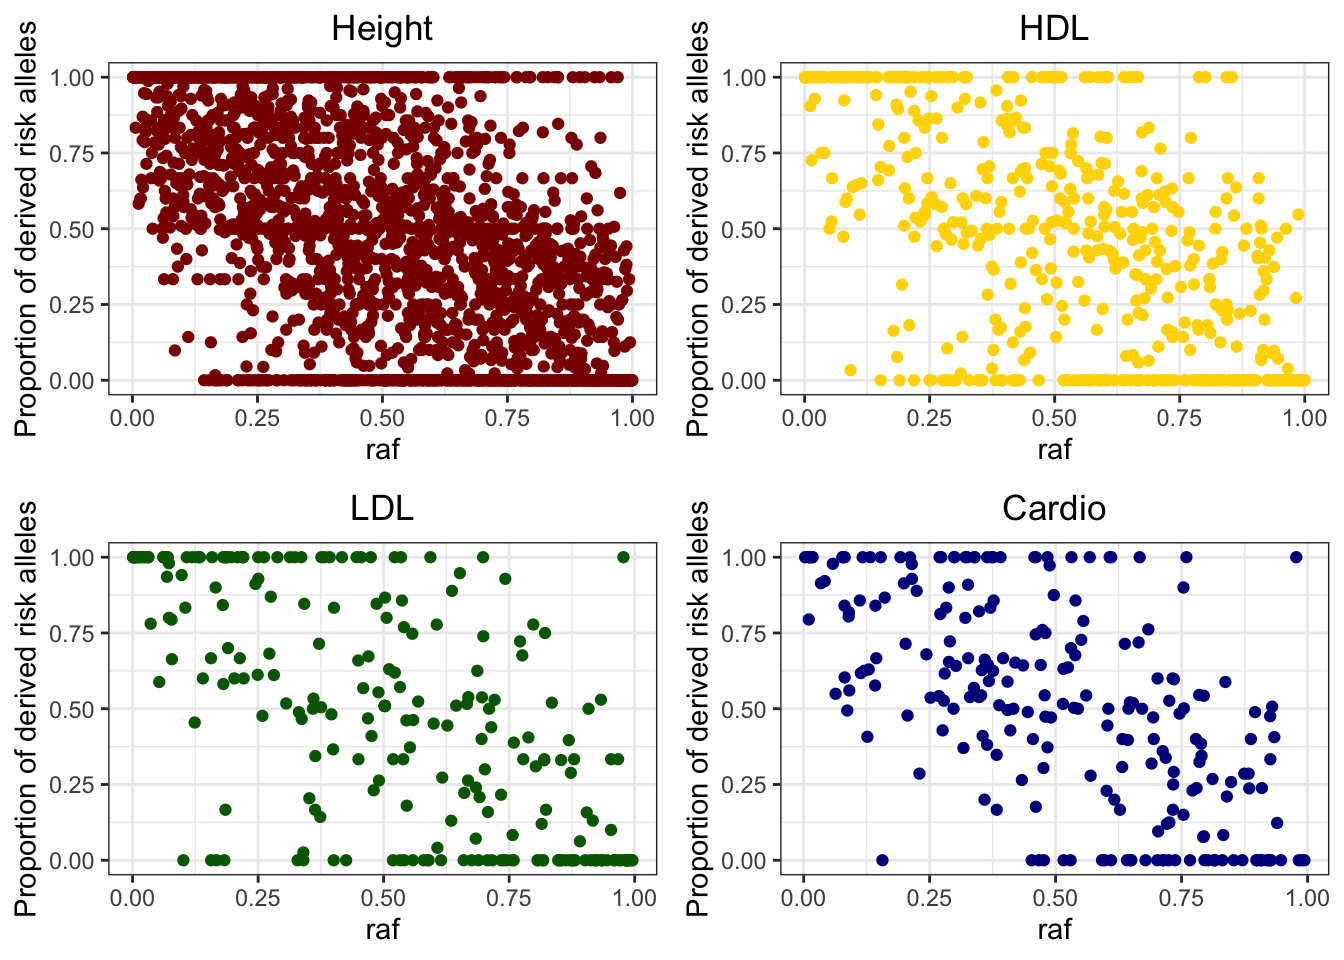
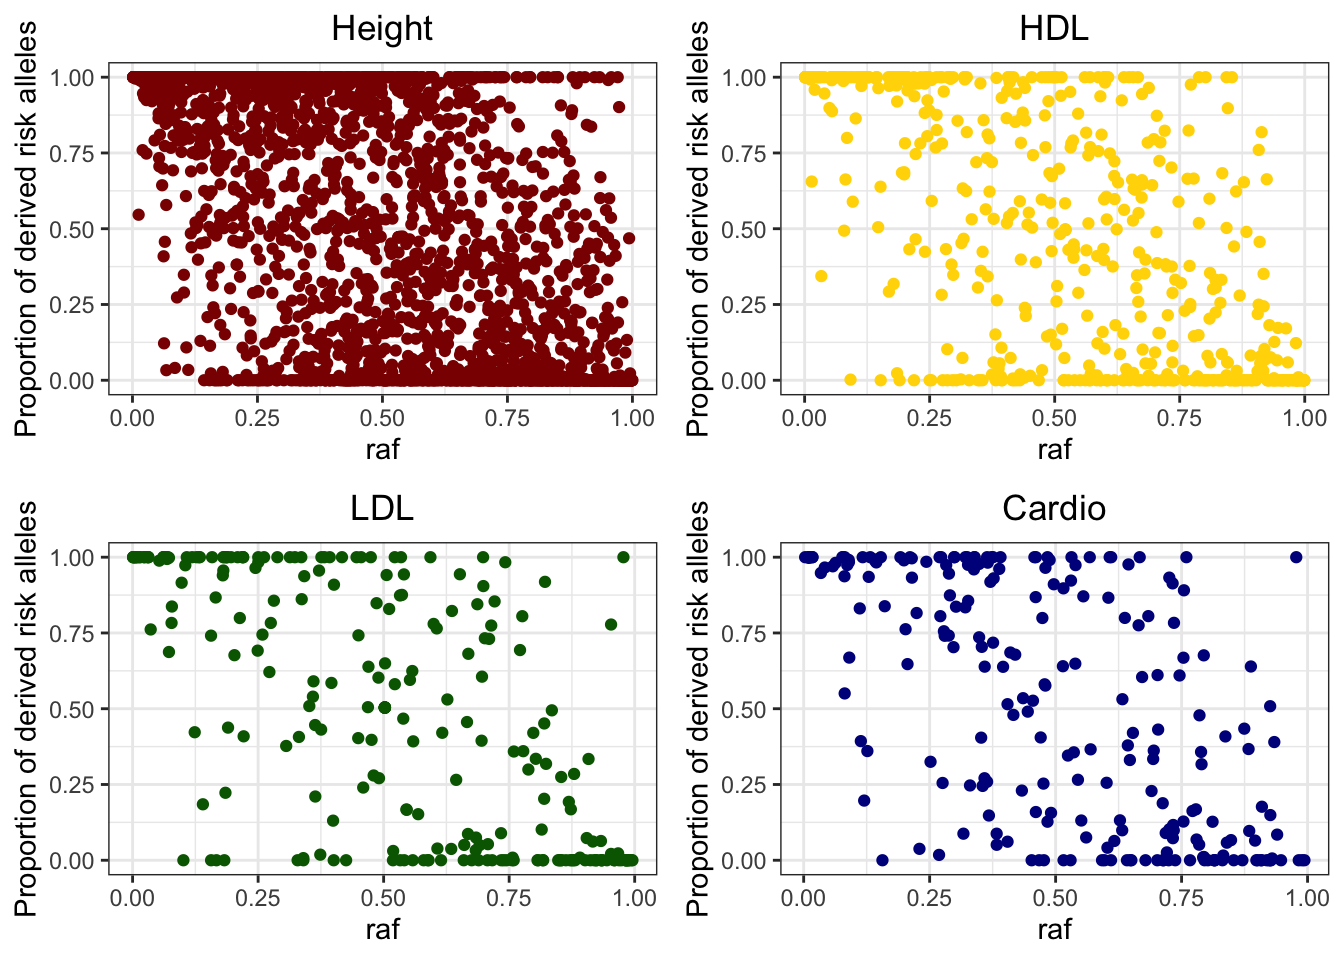
Build site.

diff --git a/docs/CS_results.html b/docs/CS_results.html
@@ -535,10 +535,10 @@ This reproducible <a href="http://rmarkdown.rstudio.com">R Markdown</a> analysis
 <div class="panel panel-default">
 <div class="panel-heading">
 <p class="panel-title">
-<a data-toggle="collapse" data-parent="#workflowr-checks" href="#strongRepositoryversionstrongahrefhttpsgithubcomjgblancinfermutationalbiastree702e047d6756aacf00816cf950a7d4c7371c9dd7targetblank702e047a"> <span class="glyphicon glyphicon-ok text-success" aria-hidden="true"></span> <strong>Repository version:</strong> <a href="https://github.com/jgblanc/infer_mutational_bias/tree/702e047d6756aacf00816cf950a7d4c7371c9dd7" target="_blank">702e047</a> </a>
+<a data-toggle="collapse" data-parent="#workflowr-checks" href="#strongRepositoryversionstrongahrefhttpsgithubcomjgblancinfermutationalbiastreef80bb2ee2e18e8f00af33c6faa8682ca47ed491btargetblankf80bb2ea"> <span class="glyphicon glyphicon-ok text-success" aria-hidden="true"></span> <strong>Repository version:</strong> <a href="https://github.com/jgblanc/infer_mutational_bias/tree/f80bb2ee2e18e8f00af33c6faa8682ca47ed491b" target="_blank">f80bb2e</a> </a>
 </p>
 </div>
[2 lines of base64/hex data omitted]
 <div class="panel-body">
 <p>
 Great! You are using Git for version control. Tracking code development and connecting the code version to the results is critical for reproducibility. The version displayed above was the version of the Git repository at the time these results were generated. <br><br> Note that you need to be careful to ensure that all relevant files for the analysis have been committed to Git prior to generating the results (you can use <code>wflow_publish</code> or <code>wflow_git_commit</code>). workflowr only checks the R Markdown file, but you know if there are other scripts or data files that it depends on. Below is the status of the Git repository when the results were generated:
@@ -556,64 +556,7 @@ Ignored files:
     Ignored:    .snakemake/singularity/
     Ignored:    data/47UKBB/
     Ignored:    output/.DS_Store
-
-Untracked files:
-    Untracked:  .snakemake/log/2019-12-01T171704.445769.snakemake.log
-    Untracked:  .snakemake/log/2019-12-01T171716.445658.snakemake.log
-    Untracked:  .snakemake/log/2019-12-01T171934.887885.snakemake.log
-    Untracked:  .snakemake/log/2019-12-01T172033.450339.snakemake.log
-    Untracked:  .snakemake/log/2019-12-01T172434.758514.snakemake.log
-    Untracked:  .snakemake/log/2019-12-01T172515.391178.snakemake.log
-    Untracked:  .snakemake/log/2019-12-01T172540.390292.snakemake.log
-    Untracked:  .snakemake/log/2019-12-01T172641.640050.snakemake.log
-    Untracked:  .snakemake/log/2019-12-01T173001.519786.snakemake.log
-    Untracked:  .snakemake/log/2019-12-01T173023.677145.snakemake.log
-    Untracked:  .snakemake/log/2019-12-01T193449.229760.snakemake.log
-    Untracked:  .snakemake/log/2019-12-02T102328.145936.snakemake.log
-    Untracked:  .snakemake/log/2019-12-02T140133.805553.snakemake.log
-    Untracked:  .snakemake/log/2019-12-02T140143.026074.snakemake.log
-    Untracked:  .snakemake/log/2019-12-02T143231.038420.snakemake.log
-    Untracked:  .snakemake/log/2019-12-02T145534.696725.snakemake.log
-    Untracked:  .snakemake/log/2019-12-02T145633.467935.snakemake.log
-    Untracked:  .snakemake/log/2019-12-02T153155.369261.snakemake.log
-    Untracked:  .snakemake/log/2019-12-02T160651.352894.snakemake.log
-    Untracked:  .snakemake/log/2019-12-02T161052.405589.snakemake.log
-    Untracked:  .snakemake/log/2019-12-05T110442.752390.snakemake.log
-    Untracked:  .snakemake/log/2019-12-05T114920.799265.snakemake.log
-    Untracked:  .snakemake/log/2019-12-05T114943.767632.snakemake.log
-    Untracked:  .snakemake/log/2019-12-05T131339.704902.snakemake.log
-    Untracked:  .snakemake/log/2019-12-05T161254.126823.snakemake.log
-    Untracked:  .snakemake/log/2019-12-05T163051.151332.snakemake.log
-    Untracked:  .snakemake/log/2019-12-06T094920.751632.snakemake.log
-    Untracked:  .snakemake/log/2019-12-06T094937.830782.snakemake.log
-    Untracked:  .snakemake/log/2019-12-06T100256.617380.snakemake.log
-    Untracked:  .snakemake/metadata/b3V0cHV0LzQ3VUtCQi9FQUZfaW5mb19hZGRlZC9iaW9jaGVtaXN0cnlfSERMY2hvbGVzdGVyb2xfRUFGLnR4dA==
-    Untracked:  .snakemake/metadata/b3V0cHV0LzQ3VUtCQi9SQUZfaW5mb19hZGRlZC9iaW9jaGVtaXN0cnlfSERMY2hvbGVzdGVyb2xfUkFGLnR4dA==
-    Untracked:  .snakemake/metadata/b3V0cHV0LzQ3VUtCQi9SQUZfaW5mb19hZGRlZC9iaW9jaGVtaXN0cnlfTERMZGlyZWN0X1JBRi50eHQ=
-    Untracked:  .snakemake/metadata/b3V0cHV0LzQ3VUtCQi9SQUZfaW5mb19hZGRlZC9ib2R5X0hFSUdIVHpfUkFGLnR4dA==
-    Untracked:  .snakemake/metadata/b3V0cHV0LzQ3VUtCQi9SQUZfaW5mb19hZGRlZC9kaXNlYXNlX0NBUkRJT1ZBU0NVTEFSX1JBRi50eHQ=
-    Untracked:  .snakemake/metadata/b3V0cHV0LzQ3VUtCQi9ldm9faW5mb19hZGRlZC9iaW9jaGVtaXN0cnlfTERMZGlyZWN0X2V2b19hZGRlZC50eHQ=
-    Untracked:  .snakemake/metadata/b3V0cHV0LzQ3VUtCQi9ldm9faW5mb19hZGRlZC9ib2R5X0hFSUdIVHpfZXZvX2FkZGVkLnR4dA==
-    Untracked:  .snakemake/metadata/b3V0cHV0LzQ3VUtCQi9ldm9faW5mb19hZGRlZC9kaXNlYXNlX0NBUkRJT1ZBU0NVTEFSX2V2b19hZGRlZC50eHQ=
-    Untracked:  .snakemake/metadata/b3V0cHV0LzQ3VUtCQi9wYXJzZWRfYWxwaGFzL2Jpb2NoZW1pc3RyeV9MRExkaXJlY3RfYWxwaGFzX3BhcnNlZC50eHQ=
-    Untracked:  .snakemake/metadata/b3V0cHV0LzQ3VUtCQi9wYXJzZWRfYWxwaGFzL2JvZHlfSEVJR0hUel9hbHBoYXNfcGFyc2VkLnR4dA==
-    Untracked:  .snakemake/metadata/b3V0cHV0LzQ3VUtCQi9wYXJzZWRfYWxwaGFzL2Rpc2Vhc2VfQ0FSRElPVkFTQ1VMQVJfYWxwaGFzX3BhcnNlZC50eHQ=
-    Untracked:  _workflowr.yml~
-    Untracked:  analysis/model_overvieew.Rmd
-    Untracked:  code/get_EAF_rsID.py
-    Untracked:  code/get_EAF_rsID.py~
-    Untracked:  code/get_RAF.R
-    Untracked:  code/get_RAF_rsID.py~
-    Untracked:  output/47UKBB/
-
-Unstaged changes:
-    Modified:   .snakemake/metadata/b3V0cHV0LzQ3VUtCQi9ldm9faW5mb19hZGRlZC9iaW9jaGVtaXN0cnlfSERMY2hvbGVzdGVyb2xfZXZvX2FkZGVkLnR4dA==
-    Modified:   .snakemake/metadata/b3V0cHV0LzQ3VUtCQi9wYXJzZWRfYWxwaGFzL2Jpb2NoZW1pc3RyeV9IRExjaG9sZXN0ZXJvbF9hbHBoYXNfcGFyc2VkLnR4dA==
-    Modified:   _workflowr.yml
-    Modified:   analysis/figure_out_cs.Rmd
-    Modified:   code/parse_alphas_47UKBB.R
-    Modified:   snakefile
-    Modified:   snakefile~
+    Ignored:    output/47UKBB/
 
 </code></pre>
 <p>
@@ -652,6 +595,40 @@ Message
 </tr>
 </thead>
 <tbody>
+<tr>
+<td>
+Rmd
+</td>
+<td>
+<a href="https://github.com/jgblanc/infer_mutational_bias/blob/f80bb2ee2e18e8f00af33c6faa8682ca47ed491b/analysis/CS_results.Rmd" target="_blank">f80bb2e</a>
+</td>
+<td>
+jgblanc
+</td>
+<td>
+2019-12-09
+</td>
+<td>
+fixed RAF plot
+</td>
+</tr>
+<tr>
+<td>
+html
+</td>
+<td>
+<a href="https://rawcdn.githack.com/jgblanc/infer_mutational_bias/20ae584e6082f36520d9c7ba44bebcee7b7990a7/docs/CS_results.html" target="_blank">20ae584</a>
+</td>
+<td>
+jgblanc
+</td>
+<td>
+2019-12-09
+</td>
+<td>
+Build site.
+</td>
+</tr>
 <tr>
 <td>
 Rmd
@@ -936,6 +913,17 @@ Date
 <tbody>
 <tr>
 <td>
+<a href="https://github.com/jgblanc/infer_mutational_bias/blob/20ae584e6082f36520d9c7ba44bebcee7b7990a7/docs/figure/CS_results.Rmd/unnamed-chunk-10-1.png" target="_blank">20ae584</a>
+</td>
+<td>
+jgblanc
+</td>
+<td>
+2019-12-09
+</td>
+</tr>
+<tr>
+<td>
 <a href="https://github.com/jgblanc/infer_mutational_bias/blob/76ee01773c578a2d7d5c80032769d9564276d07d/docs/figure/CS_results.Rmd/unnamed-chunk-10-1.png" target="_blank">76ee017</a>
 </td>
 <td>
@@ -1002,6 +990,17 @@ Date
 <tbody>
 <tr>
 <td>
+<a href="https://github.com/jgblanc/infer_mutational_bias/blob/20ae584e6082f36520d9c7ba44bebcee7b7990a7/docs/figure/CS_results.Rmd/unnamed-chunk-11-1.png" target="_blank">20ae584</a>
+</td>
+<td>
+jgblanc
+</td>
+<td>
+2019-12-09
+</td>
+</tr>
+<tr>
+<td>
 <a href="https://github.com/jgblanc/infer_mutational_bias/blob/76ee01773c578a2d7d5c80032769d9564276d07d/docs/figure/CS_results.Rmd/unnamed-chunk-11-1.png" target="_blank">76ee017</a>
 </td>
 <td>
@@ -1056,6 +1055,17 @@ Date
 <tbody>
 <tr>
 <td>
+<a href="https://github.com/jgblanc/infer_mutational_bias/blob/20ae584e6082f36520d9c7ba44bebcee7b7990a7/docs/figure/CS_results.Rmd/unnamed-chunk-12-1.png" target="_blank">20ae584</a>
+</td>
+<td>
+jgblanc
+</td>
+<td>
+2019-12-09
+</td>
+</tr>
+<tr>
+<td>
 <a href="https://github.com/jgblanc/infer_mutational_bias/blob/76ee01773c578a2d7d5c80032769d9564276d07d/docs/figure/CS_results.Rmd/unnamed-chunk-12-1.png" target="_blank">76ee017</a>
 </td>
 <td>
@@ -1101,6 +1111,17 @@ Date
 </tr>
 </thead>
 <tbody>
+<tr>
+<td>
+<a href="https://github.com/jgblanc/infer_mutational_bias/blob/20ae584e6082f36520d9c7ba44bebcee7b7990a7/docs/figure/CS_results.Rmd/unnamed-chunk-13-1.png" target="_blank">20ae584</a>
+</td>
+<td>
+jgblanc
+</td>
+<td>
+2019-12-09
+</td>
+</tr>
 <tr>
 <td>
 <a href="https://github.com/jgblanc/infer_mutational_bias/blob/76ee01773c578a2d7d5c80032769d9564276d07d/docs/figure/CS_results.Rmd/unnamed-chunk-13-1.png" target="_blank">76ee017</a>
@@ -1149,6 +1170,17 @@ Date
 <tbody>
 <tr>
 <td>
+<a href="https://github.com/jgblanc/infer_mutational_bias/blob/20ae584e6082f36520d9c7ba44bebcee7b7990a7/docs/figure/CS_results.Rmd/unnamed-chunk-14-1.png" target="_blank">20ae584</a>
+</td>
+<td>
+jgblanc
+</td>
+<td>
+2019-12-09
+</td>
+</tr>
+<tr>
+<td>
 <a href="https://github.com/jgblanc/infer_mutational_bias/blob/76ee01773c578a2d7d5c80032769d9564276d07d/docs/figure/CS_results.Rmd/unnamed-chunk-14-1.png" target="_blank">76ee017</a>
 </td>
 <td>
@@ -1163,7 +1195,7 @@ jgblanc
 </div>
 </div>
 <p>We can’t really color by the derived ancestral status because there are multiple SNPs with different status’s in each set - we will compare proportion of derived/ancestral alleles within each set in the next section.</p>
-<p>** Distribution of D/A alleles in CS **</p>
+<p><strong>Distribution of D/A alleles in CS</strong></p>
 <p>First let’s pick a few regions with multiple credible sets:</p>
 <pre class="r"><code>ms_region &lt;- subset(height, height$CHR == 1 &amp; height$REGION_ID == 2)
 ggplot(ms_region, aes(x=BP, y=ES, color = RISK_DERIVED, shape = as.factor(CS_ID))) + geom_point() + theme_bw() +  ggtitle(&quot;Height&quot;) + theme(plot.title = element_text(hjust = 0.5))</code></pre>
@@ -1190,6 +1222,17 @@ Date
 </tr>
 </thead>
 <tbody>
+<tr>
+<td>
+<a href="https://github.com/jgblanc/infer_mutational_bias/blob/20ae584e6082f36520d9c7ba44bebcee7b7990a7/docs/figure/CS_results.Rmd/unnamed-chunk-15-1.png" target="_blank">20ae584</a>
+</td>
+<td>
+jgblanc
+</td>
+<td>
+2019-12-09
+</td>
+</tr>
 <tr>
 <td>
 <a href="https://github.com/jgblanc/infer_mutational_bias/blob/76ee01773c578a2d7d5c80032769d9564276d07d/docs/figure/CS_results.Rmd/unnamed-chunk-15-1.png" target="_blank">76ee017</a>
@@ -1232,6 +1275,17 @@ Date
 <tbody>
 <tr>
 <td>
+<a href="https://github.com/jgblanc/infer_mutational_bias/blob/20ae584e6082f36520d9c7ba44bebcee7b7990a7/docs/figure/CS_results.Rmd/unnamed-chunk-16-1.png" target="_blank">20ae584</a>
+</td>
+<td>
+jgblanc
+</td>
+<td>
+2019-12-09
+</td>
+</tr>
+<tr>
+<td>
 <a href="https://github.com/jgblanc/infer_mutational_bias/blob/76ee01773c578a2d7d5c80032769d9564276d07d/docs/figure/CS_results.Rmd/unnamed-chunk-16-1.png" target="_blank">76ee017</a>
 </td>
 <td>
@@ -1253,14 +1307,89 @@ p4 &lt;- cardio %&gt;% drop_na(RISK_DERIVED) %&gt;% group_by(UNIQ_ID) %&gt;% sum
 
 ggarrange(p1,p2,p3,p4, common.legend = T, legend = &quot;bottom&quot;)</code></pre>
 <p><img src="figure/CS_results.Rmd/unnamed-chunk-17-1.png" width="672" style="display: block; margin: auto;" /></p>
+<p>
+<button type="button" class="btn btn-default btn-xs btn-workflowr btn-workflowr-fig" data-toggle="collapse" data-target="#fig-unnamed-chunk-17-1">
+Past versions of unnamed-chunk-17-1.png
+</button>
+</p>
+<div id="fig-unnamed-chunk-17-1" class="collapse">
+<div class="table-responsive">
+<table class="table table-condensed table-hover">
+<thead>
+<tr>
+<th>
+Version
+</th>
+<th>
+Author
+</th>
+<th>
+Date
+</th>
+</tr>
+</thead>
+<tbody>
+<tr>
+<td>
+<a href="https://github.com/jgblanc/infer_mutational_bias/blob/20ae584e6082f36520d9c7ba44bebcee7b7990a7/docs/figure/CS_results.Rmd/unnamed-chunk-17-1.png" target="_blank">20ae584</a>
+</td>
+<td>
+jgblanc
+</td>
+<td>
+2019-12-09
+</td>
+</tr>
+</tbody>
+</table>
+</div>
+</div>
 <p>For all traits approximately half of the credible sets have either all derived or all ancestral alleles, now we will compare the proportion of derived risk alleles within a credible set to the average RAF within the set.</p>
-<pre class="r"><code>p1 &lt;- height %&gt;% drop_na(RISK_DERIVED) %&gt;% group_by(UNIQ_ID) %&gt;% summarise(prop_ad = (sum(RISK_DERIVED == T)/n()), raf = (sum(RAF * ALPHA)/sum(ALPHA))) %&gt;% ggplot(aes(x=raf, y=prop_ad)) + geom_point(color = &quot;darkred&quot;) + theme_bw() + ylab(&quot;Proportion of derived risk alleles&quot;) + ggtitle(&quot;Height&quot;) + theme(plot.title = element_text(hjust = 0.5))
-p2 &lt;- HDL %&gt;% drop_na(RISK_DERIVED) %&gt;% group_by(UNIQ_ID) %&gt;% summarise(prop_ad = (sum(RISK_DERIVED == T)/n()), raf = (sum(RAF * ALPHA)/sum(ALPHA))) %&gt;% ggplot(aes(x=raf, y=prop_ad)) + geom_point(color = &quot;gold&quot;) + theme_bw() + ylab(&quot;Proportion of derived risk alleles&quot;) + ggtitle(&quot;HDL&quot;) + theme(plot.title = element_text(hjust = 0.5))
-p3 &lt;- LDL %&gt;% drop_na(RISK_DERIVED) %&gt;% group_by(UNIQ_ID) %&gt;% summarise(prop_ad = (sum(RISK_DERIVED == T)/n()), raf = (sum(RAF * ALPHA)/sum(ALPHA))) %&gt;% ggplot(aes(x=raf, y=prop_ad)) + geom_point(color = &quot;darkgreen&quot;) + theme_bw() + ylab(&quot;Proportion of derived risk alleles&quot;) + ggtitle(&quot;LDL&quot;) + theme(plot.title = element_text(hjust = 0.5))
-p4 &lt;- cardio %&gt;% drop_na(RISK_DERIVED) %&gt;% group_by(UNIQ_ID) %&gt;% summarise(prop_ad = (sum(RISK_DERIVED == T)/n()), raf = (sum(RAF * ALPHA)/sum(ALPHA))) %&gt;% ggplot(aes(x=raf, y=prop_ad)) + geom_point(color = &quot;darkblue&quot;) + theme_bw() + ylab(&quot;Proportion of derived risk alleles&quot;) + ggtitle(&quot;Cardio&quot;) + theme(plot.title = element_text(hjust = 0.5))
+<p><strong>weight by ALPHA</strong></p>
+<pre class="r"><code>p1 &lt;- height %&gt;% drop_na(RISK_DERIVED) %&gt;% group_by(UNIQ_ID) %&gt;% summarise(prop_ad = (sum((RISK_DERIVED == T) * ALPHA)/sum(ALPHA)), raf = (sum(RAF * ALPHA)/sum(ALPHA))) %&gt;% ggplot(aes(x=raf, y=prop_ad)) + geom_point(color = &quot;darkred&quot;) + theme_bw() + ylab(&quot;Proportion of derived risk alleles&quot;) + ggtitle(&quot;Height&quot;) + theme(plot.title = element_text(hjust = 0.5))
+p2 &lt;- HDL %&gt;% drop_na(RISK_DERIVED) %&gt;% group_by(UNIQ_ID) %&gt;% summarise(prop_ad = (sum((RISK_DERIVED == T) * ALPHA)/sum(ALPHA)), raf = (sum(RAF * ALPHA)/sum(ALPHA))) %&gt;% ggplot(aes(x=raf, y=prop_ad)) + geom_point(color = &quot;gold&quot;) + theme_bw() + ylab(&quot;Proportion of derived risk alleles&quot;) + ggtitle(&quot;HDL&quot;) + theme(plot.title = element_text(hjust = 0.5))
+p3 &lt;- LDL %&gt;% drop_na(RISK_DERIVED) %&gt;% group_by(UNIQ_ID) %&gt;% summarise(prop_ad = (sum((RISK_DERIVED == T) * ALPHA)/sum(ALPHA)), raf = (sum(RAF * ALPHA)/sum(ALPHA))) %&gt;% ggplot(aes(x=raf, y=prop_ad)) + geom_point(color = &quot;darkgreen&quot;) + theme_bw() + ylab(&quot;Proportion of derived risk alleles&quot;) + ggtitle(&quot;LDL&quot;) + theme(plot.title = element_text(hjust = 0.5))
+p4 &lt;- cardio %&gt;% drop_na(RISK_DERIVED) %&gt;% group_by(UNIQ_ID) %&gt;% summarise(prop_ad = (sum((RISK_DERIVED == T) * ALPHA)/sum(ALPHA)), raf = (sum(RAF * ALPHA)/sum(ALPHA))) %&gt;% ggplot(aes(x=raf, y=prop_ad)) + geom_point(color = &quot;darkblue&quot;) + theme_bw() + ylab(&quot;Proportion of derived risk alleles&quot;) + ggtitle(&quot;Cardio&quot;) + theme(plot.title = element_text(hjust = 0.5))
 
 ggarrange(p1,p2,p3,p4, common.legend = T, legend = &quot;bottom&quot; )</code></pre>
 <p><img src="figure/CS_results.Rmd/unnamed-chunk-18-1.png" width="672" style="display: block; margin: auto;" /></p>
+<p>
+<button type="button" class="btn btn-default btn-xs btn-workflowr btn-workflowr-fig" data-toggle="collapse" data-target="#fig-unnamed-chunk-18-1">
+Past versions of unnamed-chunk-18-1.png
+</button>
+</p>
+<div id="fig-unnamed-chunk-18-1" class="collapse">
+<div class="table-responsive">
+<table class="table table-condensed table-hover">
+<thead>
+<tr>
+<th>
+Version
+</th>
+<th>
+Author
+</th>
+<th>
+Date
+</th>
+</tr>
+</thead>
+<tbody>
+<tr>
+<td>
+<a href="https://github.com/jgblanc/infer_mutational_bias/blob/20ae584e6082f36520d9c7ba44bebcee7b7990a7/docs/figure/CS_results.Rmd/unnamed-chunk-18-1.png" target="_blank">20ae584</a>
+</td>
+<td>
+jgblanc
+</td>
+<td>
+2019-12-09
+</td>
+</tr>
+</tbody>
+</table>
+</div>
+</div>
 <br>
 <p>
 <button type="button" class="btn btn-default btn-workflowr btn-workflowr-sessioninfo" data-toggle="collapse" data-target="#workflowr-sessioninfo" style="display: block;">
